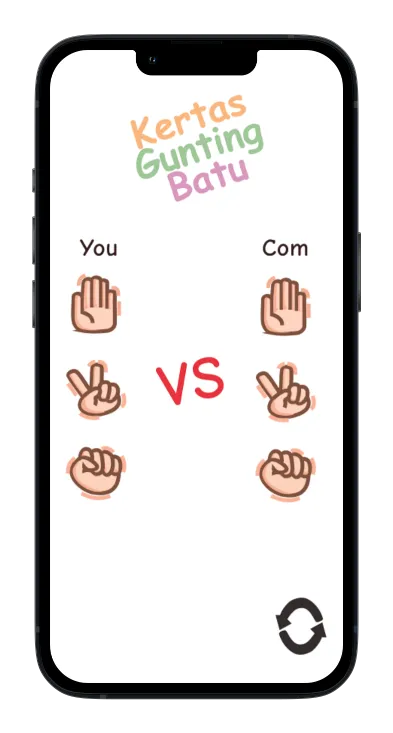
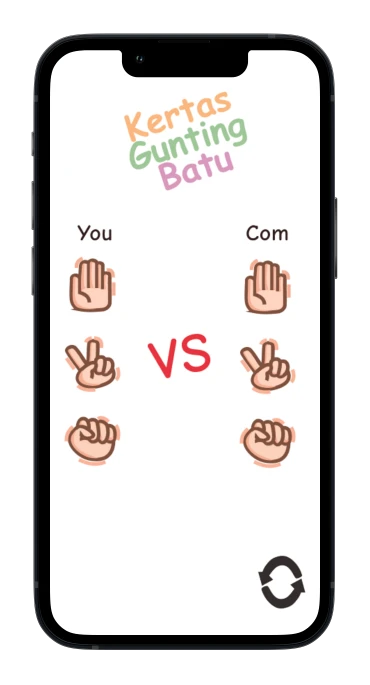
replace rps assets with new ones

diff --git a/src/components/Project.svelte b/src/components/Project.svelte
@@ -133,7 +133,7 @@
 		}
 
 		.img-container {
-			padding: 1rem;
+			padding: 0.85rem;
 		}
 	}
 </style>
